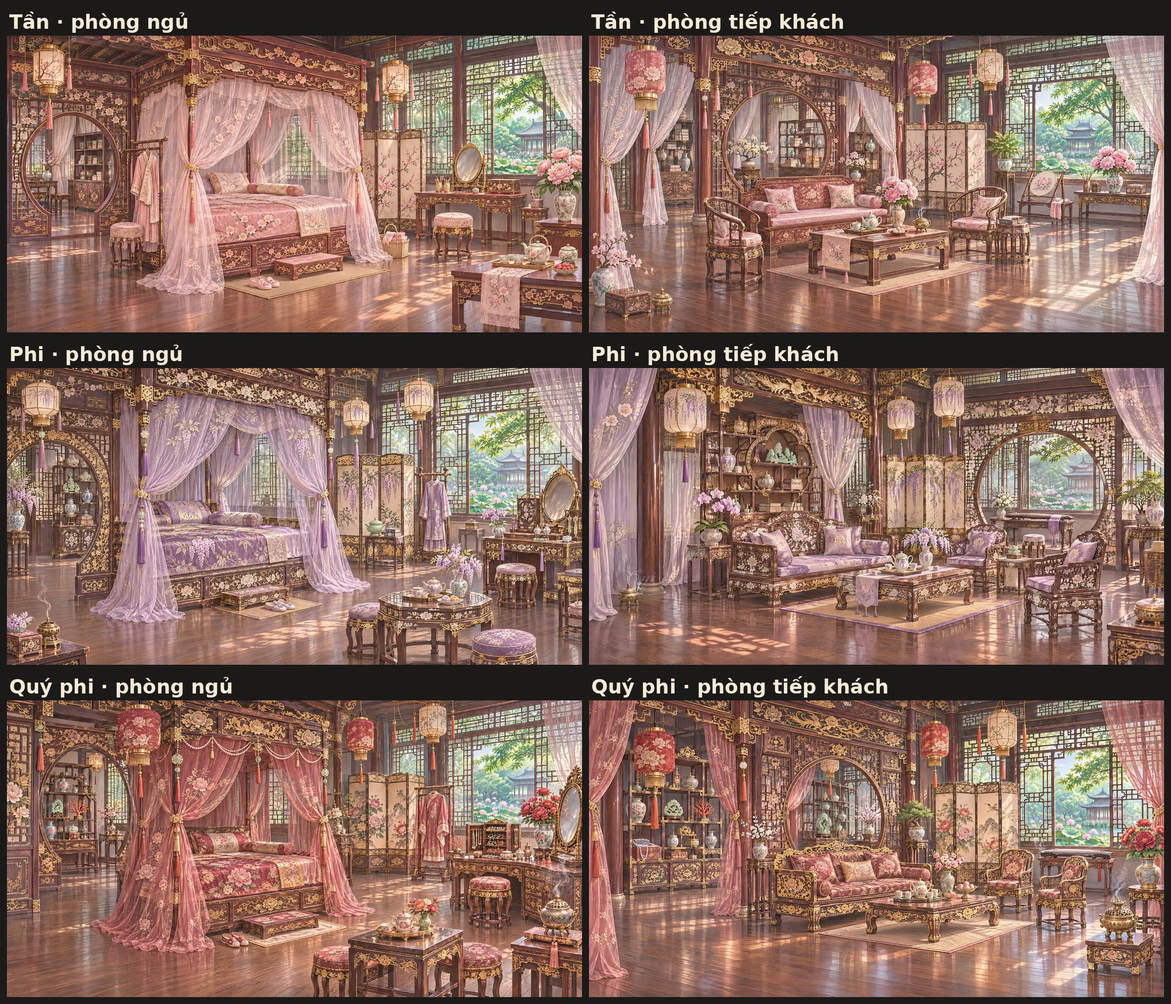
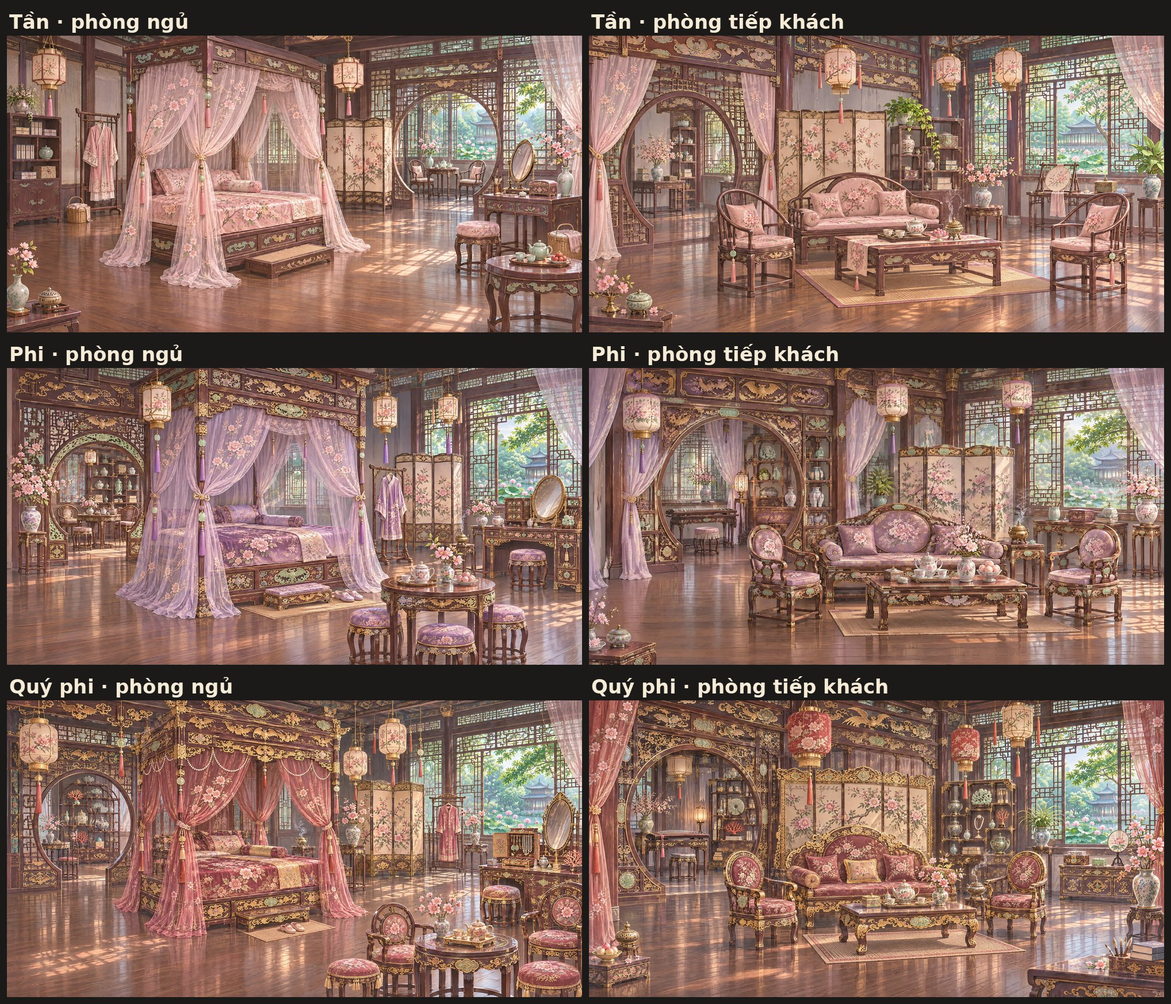
place-rank SAMPLE v2: Cảnh Phúc ×6 redrawn with style card (crabapple/bats/jade), Quý phi small yellow accent (Lượt 450); sheets rebuilt
Claude-Session: https://claude.ai/code/session_01PEhRbvt3BfpCvdwBupJBXh

diff --git a/dev/art/place-rank/prompts.py b/dev/art/place-rank/prompts.py
@@ -4,7 +4,12 @@ python3 dev/art/place-rank/prompts.py  -> writes prompts.json next to this file.
 import json, os
 D = os.path.dirname(os.path.abspath(__file__))
 T = open(os.path.join(D, '..', 'place-redraw', 'prompt_template.txt')).read().strip()
-NOPE = ' No phoenix anywhere, no yellow silk or yellow fabric anywhere.'
+NOPE = ' No phoenix anywhere (no phoenix carving, embroidery, figure or pendant), no imperial yellow, no golden-yellow fabrics.'
+NOPE_QF = ' No phoenix anywhere (no phoenix carving, embroidery, figure or pendant); yellow only as the one small accent named above, never imperial yellow silk.'
+# STYLE CARDS (ROOT-48 relay of owner add to Lượt 447: each palace its own signature, same across ranks and both rooms)
+CARD_CP = ("Cảnh Phúc cung signature style, the same in every room of this palace: crabapple blossoms (hải đường) are its flower, painted on the screens, "
+           "embroidered on the silks and in the vases; motifs of bats among auspicious clouds carved in the beams and furniture; dark rosewood with jade-green inlay "
+           "and jade ornaments; round-backed rosewood furniture; a round moon-gate opening in a carved partition. ")
 # Cảnh Phúc chính điện: SAME architecture in all three versions, only the furnishing gets richer
 CPA_BED = ("Cảnh Phúc cung chính điện bedroom, the private bedchamber of the imperial consort who heads this palace in ancient China, "
            "a real room in daily use: dark rosewood pillars and beams, carved lattice windows at the back opening onto a sunny courtyard "
@@ -13,24 +18,24 @@ CPA_REC = ("Cảnh Phúc cung chính điện reception room, the sitting room wh
            "receives her guests, a real room in daily use, no bed anywhere: dark rosewood pillars and beams, carved lattice windows at the back "
            "opening onto a sunny courtyard garden with a tree and a lotus pond, a carved wooden partition with a round moon-gate opening; ")
 RANK = {
- 'tan': dict(col='pale pink', bed="one canopy bed with pale pink gauze curtains tied back and pale pink embroidered silk bedding and cushions, the bed of carved red lacquer with fine gilt edging",
-             bedx="a dressing table with a bronze mirror and a jewellery box, a small painted screen with plum blossoms, embroidered stools with pale pink cushions, hanging palace lanterns with pink tassels, a clothes rack with a pink robe, a vase of pink peonies, a tea table, a small bookshelf with boxes, slippers and a small basket on the floor",
-             rec="a carved red lacquer couch with pale pink silk cushions and a low tea table with a tea set, two carved armchairs with pale pink cushions, a painted folding screen of plum blossoms, shelves with porcelain vases and boxes, pale pink sheer curtains tied back, hanging palace lanterns with pink tassels, vases of pink peonies, an incense burner, an embroidery frame on a stand, potted plants",
-             lux="Pretty and noble but modest for a consort: carved lacquer with fine gilt edging, embroidered silk."),
- 'phi': dict(col='soft purple', bed="one larger canopy bed with soft purple gauze curtains tied back with tassels and purple embroidered silk brocade bedding and cushions, the bed of carved rosewood richly inlaid with gilt and mother-of-pearl",
-             bedx="a carved dressing table with a large bronze mirror, a lacquered jewellery cabinet and jade ornaments, a gilded folding screen painted with wisteria, embroidered stools with purple cushions, hanging palace lanterns with purple tassels, a clothes stand with a purple silk robe, celadon and blue-and-white porcelain vases of wisteria and orchids, a tea table with a fine tea set, a shelf with jade and porcelain treasures, a small incense burner, slippers on the floor",
-             rec="a carved rosewood couch inlaid with mother-of-pearl, with purple brocade cushions, and a low tea table with a fine porcelain tea set, a pair of carved armchairs with purple cushions, a gilded folding screen painted with wisteria, curio shelves with jade carvings, porcelain and lacquer boxes, soft purple sheer curtains tied back with tassels, hanging palace lanterns with purple tassels, vases of orchids and wisteria, a bronze incense burner, a guqin on a stand, potted plants",
-             lux="Richer than a lower consort: more gilt carving, mother-of-pearl inlay, silk brocade, jade and fine porcelain."),
- 'quyphi': dict(col='rose red', bed="one grand canopy bed with rose red gauze curtains tied back with gold tassels and rose red embroidered silk brocade bedding and cushions, the bed of deeply carved rosewood with lavish gilt carving and pearl strings",
-             bedx="a large carved dressing table with a tall bronze mirror, a gilt lacquer jewellery cabinet open with pearls and jade, a gilded folding screen painted with peonies, embroidered stools with rose red cushions, ornate hanging palace lanterns with rose red tassels, a clothes stand with a rose red silk robe, cloisonné and fine porcelain vases of red peonies, a coral tree ornament, a tea table with a gold-trimmed tea set, a curio shelf with jade, coral and porcelain treasures, a bronze incense burner, slippers on the floor",
-             rec="a deeply carved gilt rosewood couch with rose red brocade cushions and a low tea table with a gold-trimmed porcelain tea set, a pair of carved gilt armchairs with rose red cushions, a large gilded folding screen painted with peonies, curio shelves full of jade carvings, cloisonné, coral and porcelain treasures, rose red sheer curtains tied back with gold tassels, ornate hanging palace lanterns with rose red tassels, vases of red peonies, a bronze incense burner, a guqin on a stand, potted plants",
-             lux="The richest of all consorts: lavish gilt carving, silk brocade, pearls, coral, jade and cloisonné, yet clearly below an Empress."),
+ 'tan': dict(col='pale pink', bed="one canopy bed of carved rosewood with pale pink gauze curtains tied back and pale pink silk bedding embroidered with crabapple blossoms, fine jade-green inlay on the bed frame",
+             bedx="a dressing table with a bronze mirror and a small jewellery box, a small screen painted with crabapple blossoms, round stools with pale pink cushions, hanging palace lanterns with pink tassels, a clothes rack with a pink robe, a vase of crabapple branches, a small tea table, a bookshelf with boxes, slippers and a small basket on the floor",
+             rec="a round-backed rosewood couch with pale pink silk cushions embroidered with crabapple blossoms and a low tea table with a tea set, two round-backed rosewood armchairs with pale pink cushions, a folding screen painted with crabapple blossoms, shelves with porcelain vases and boxes, pale pink sheer curtains tied back, hanging palace lanterns with pink tassels, vases of crabapple branches, an incense burner, an embroidery frame on a stand, potted plants",
+             lux="TẦN level, the simplest of the three: pretty and noble but modest, plain polished rosewood with a little carving, few ornaments, little gilding.", nope=None),
+ 'phi': dict(col='soft purple', bed="one larger canopy bed of carved rosewood with soft purple gauze curtains tied back with tassels and purple silk brocade bedding embroidered with crabapple blossoms, more carving and jade-green inlay on the bed frame",
+             bedx="a carved dressing table with a large bronze mirror, a lacquered jewellery cabinet and jade ornaments, a carved screen painted with crabapple blossoms, round stools with purple cushions, hanging palace lanterns with purple tassels, a clothes stand with a purple silk robe, porcelain vases of crabapple branches, a tea table with a fine tea set, a shelf with jade and porcelain treasures, a small incense burner, slippers on the floor",
+             rec="a carved round-backed rosewood couch with purple brocade cushions embroidered with crabapple blossoms and a low tea table with a fine porcelain tea set, a pair of carved round-backed armchairs with purple cushions, a carved screen painted with crabapple blossoms, curio shelves with jade carvings, porcelain and lacquer boxes, soft purple sheer curtains tied back with tassels, hanging palace lanterns with purple tassels, vases of crabapple branches, a bronze incense burner, a guqin on a stand, potted plants",
+             lux="PHI level, clearly richer than a Tần: more carving, more jade-green inlay, some gilt edging, silk brocade, more jade and porcelain treasures.", nope=None),
+ 'quyphi': dict(col='rose red', bed="one grand canopy bed of deeply carved rosewood with gilt carving, jade-green inlay and pearl strings, rose red gauze curtains tied back with tassels, rose red silk brocade bedding embroidered with crabapple blossoms, with one small accent of pale gold-yellow in the cushion trim and tassels",
+             bedx="a large carved dressing table with a tall bronze mirror, a gilt lacquer jewellery cabinet open with pearls and jade, a large carved gilded screen painted with crabapple blossoms, round stools with rose red cushions, ornate hanging palace lanterns with rose red tassels, a clothes stand with a rose red silk robe, cloisonné and fine porcelain vases of crabapple branches, a coral tree ornament, a tea table with a gold-trimmed tea set, a curio shelf with jade, coral and porcelain treasures, a bronze incense burner, slippers on the floor",
+             rec="a deeply carved gilt round-backed rosewood couch with rose red brocade cushions embroidered with crabapple blossoms, with one small accent of pale gold-yellow in the cushion trim, and a low tea table with a gold-trimmed porcelain tea set, a pair of carved gilt round-backed armchairs with rose red cushions, a large carved gilded screen painted with crabapple blossoms, curio shelves full of jade carvings, cloisonné, coral and porcelain treasures, rose red sheer curtains tied back with tassels, ornate hanging palace lanterns with rose red tassels, cloisonné vases of crabapple branches, a bronze incense burner, a guqin on a stand, potted plants",
+             lux="QUÝ PHI level, the richest of the three: lavish gilt carving, jade-green inlay, silk brocade, pearls, coral, jade and cloisonné, yet clearly below an Empress.", nope=True),
 }
 ROOMS = {}
 for k, r in RANK.items():
-    ROOMS[f'canh-phuc-cung-{k}-ngu'] = dict(room=CPA_BED + "at the centre of the room, the large clear main subject, " + r['bed'] + "; around it " + r['bedx'] + ". " + r['lux'] + f" The {r['col']} accent colour is woven through the bedding, curtains and cushions." + NOPE,
+    ROOMS[f'canh-phuc-cung-{k}-ngu'] = dict(room=CPA_BED + "at the centre of the room, the large clear main subject, " + r['bed'] + "; around it " + r['bedx'] + ". " + CARD_CP + r['lux'] + f" The {r['col']} accent colour is woven through the bedding, curtains and cushions." + (NOPE_QF if r['nope'] else NOPE),
         floor='warm polished wooden floorboards', mat='the bed step', key='the canopy bed')
-    ROOMS[f'canh-phuc-cung-{k}'] = dict(room=CPA_REC + r['rec'] + ". " + r['lux'] + f" The {r['col']} accent colour is woven through the cushions, curtains and silks." + NOPE,
+    ROOMS[f'canh-phuc-cung-{k}'] = dict(room=CPA_REC + r['rec'] + ". " + CARD_CP + r['lux'] + f" The {r['col']} accent colour is woven through the cushions, curtains and silks." + (NOPE_QF if r['nope'] else NOPE),
         floor='warm polished wooden floorboards', mat='the tea table', key='the couch with its tea table')
 QN = "Pretty, noble and well kept, never poor: carved lacquer furniture with fine painted flowers, embroidered silk, but modest in size and luxury, a lower consort's quarters."
 ROOMS['thua-minh-cung-dong-phoi-ngu'] = dict(room="Thừa Minh cung Đông phối điện bedroom, the private bedchamber of one lower-ranking imperial consort living in the east side hall of a palace in ancient China, a real room in daily use: wooden pillars, lattice windows at the back onto a sunny garden; at the centre of the room, the large clear main subject, one canopy bed with pale blue gauze curtains tied back and pale blue embroidered silk bedding and cushions, the bed of carved lacquered wood with painted flowers; around it a small dressing table with a bronze mirror, a painted screen with orchids, embroidered stools with pale blue cushions, hanging paper lanterns with blue tassels, a clothes rack with a pale blue robe, a vase of white and blue flowers, a small tea table, a shelf with a few boxes and books, slippers and a small basket on the floor. " + QN + " The pale blue accent colour is woven through the bedding, curtains and cushions. Only one bed." + NOPE,

diff --git a/dev/handover/reports/place-rank-sample.md b/dev/handover/reports/place-rank-sample.md
@@ -26,7 +26,26 @@ Redo extra sentences (added before "No phoenix anywhere…") are in gen_ledger n
 - 4 figures evenly spaced (composite_spread.py) on the Quý phi bedroom: dev/handover/review-sheets/place-rank/place-rank-quyphi-ngu-spread.jpg · https://ctm-img.victoria-tntt.workers.dev/img/_review/place-rank/place-rank-quyphi-ngu-spread.jpg
 - Script: dev/art/place-rank/sheets.py FIGDIR OUTDIR (reuses composite_spread.py).
 
-## Credits
+
+## v2 — Cảnh Phúc redrawn after ROOT-48 relays (owner add to Lượt 447 "mỗi nơi … đặc trưng phong cách"; Lượt 450 yellow gradient; phoenix warning). The relays arrived after the v1 push.
+STYLE CARDS (used in every prompt of that palace; full text in dev/art/place-rank/prompts.py):
+- Cảnh Phúc cung: crabapple blossom (hải đường) · dark rosewood + jade-green inlay · bats among auspicious clouds · round-backed rosewood furniture + moon-gate partition. Rank only changes richness (Tần plain → Phi more carving/inlay → Quý phi gilt, pearls, coral, cloisonné) + accent (pale pink / soft purple / rose red; Quý phi + one small pale gold-yellow accent, NO phoenix).
+- Thừa Minh Đông phối (Quý nhân): orchid · pale blue + painted flower lacquer · paper lanterns, simple lattice · modest carved lacquer couch/chairs. No yellow, no phoenix.
+- Khôn Ninh cung (Hoàng hậu): peony + phoenix · imperial yellow + gold + red lacquer pillars · gilded throne couch/bed on stone tiles. Most golden.
+Every rooms 1–8 prompt now says "No phoenix anywhere (no phoenix carving, embroidery, figure or pendant), no imperial yellow, no golden-yellow fabrics" (Quý phi: yellow only as the one small accent). The 4 kept Thừa Minh/Khôn Ninh pictures were drawn with the v1 wording ("No phoenix anywhere, no yellow silk or yellow fabric anywhere", see commit 5a428d6 prompts.json); they already match their cards.
+
+| picture v2 | gen id | verdict |
+|---|---|---|
+| canh-phuc-cung-tan-ngu | nVsEG05YQD | kept |
+| canh-phuc-cung-tan | UPvTg93wny | kept |
+| canh-phuc-cung-phi-ngu | Xm9xeC3Bfo | kept |
+| canh-phuc-cung-phi | lJtWLRMgv9 | kept |
+| canh-phuc-cung-quyphi-ngu | 8ais8iSIrU (redo of Lw8nxZqswO: clothes rack + side table at left edge) | kept, small gold-yellow throw = the Quý phi accent |
+| canh-phuc-cung-quyphi | kseZ53Q16B | kept; FAULT to watch: frieze bat has feathered wings (reads bat/eagle, not phoenix) |
+v1 Cảnh Phúc six + old sheet A/spread moved to img/_review/place-rank/v1/ (CDN) as skins. Sheets A + spread rebuilt (same paths).
+Credits v2: 7 × 135 = 945. TOTAL 20 gens = 2,700 credits.
+
+## Credits (v1)
 13 gens × 135 = 1,755 credits (10 kept + 3 redos).
 
 ## Faults / notes for the verdict
